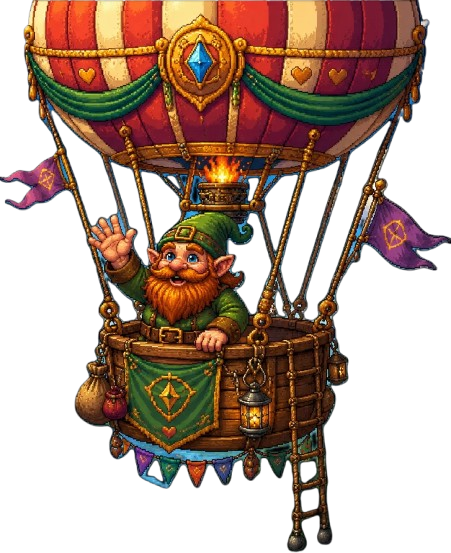
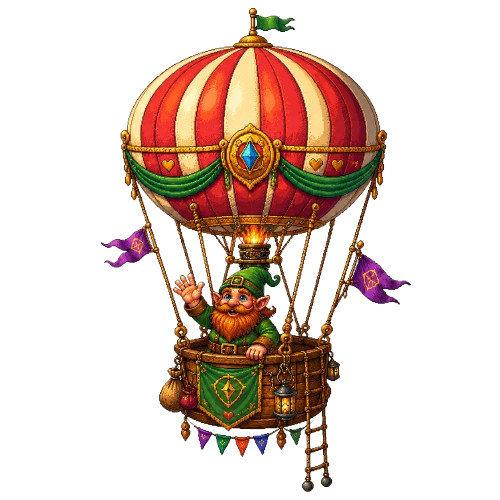
tweaks

diff --git a/src/utils/upgrades.jsx b/src/utils/upgrades.jsx
@@ -73,11 +73,11 @@ const upgradeList = [
     upgrade_image: upgrade_schubkarren,
     gartenzwerg_image: gartenzwerg_schubkarren,
     background_image: background_schubkarren,
-    costs: 25,
+    costs: 40,
     anzahl: 1,
     possession: 0,
     title: "Schubkarren",
-    type: UPGRADE_TYPES.INTERVAL,
+    type: UPGRADE_TYPES.KLICK,
     tooltipDescription: "+1 Scherbe pro Sekunde",
     buyed: false,
     id: 1,
@@ -86,11 +86,11 @@ const upgradeList = [
     upgrade_image: upgrade_heckenschere,
     gartenzwerg_image: gartenzwerg_heckenschere,
     background_image: background_heckenschere,
-    costs: 75,
-    anzahl: 2,
+    costs: 130,
+    anzahl: 1,
     possession: 0,
     title: "Heckenschere",
-    type: UPGRADE_TYPES.KLICK,
+    type: UPGRADE_TYPES.INTERVAL,
     tooltipDescription: "+2 Scherben pro Klick",
     buyed: false,
     id: 2,
@@ -99,8 +99,8 @@ const upgradeList = [
     upgrade_image: upgrade_handwerker,
     gartenzwerg_image: gartenzwerg_handwerker,
     background_image: background_handwerker,
-    costs: 150,
-    anzahl: 3,
+    costs: 350,
+    anzahl: 2,
     possession: 0,
     title: "Handwerker",
     type: UPGRADE_TYPES.INTERVAL,
@@ -112,8 +112,8 @@ const upgradeList = [
     upgrade_image: upgrade_mine,
     gartenzwerg_image: gartenzwerg_mine,
     background_image: background_mine,
-    costs: 400,
-    anzahl: 8,
+    costs: 900,
+    anzahl: 4,
     possession: 0,
     title: "Mine",
     type: UPGRADE_TYPES.KLICK,
@@ -125,8 +125,8 @@ const upgradeList = [
     upgrade_image: upgrade_rubin,
     gartenzwerg_image: gartenzwerg_rubin,
     background_image: background_rubin,
-    costs: 900,
-    anzahl: 18,
+    costs: 2200,
+    anzahl: 9,
     possession: 0,
     title: "Rubin",
     type: UPGRADE_TYPES.INTERVAL,
@@ -138,11 +138,11 @@ const upgradeList = [
     upgrade_image: upgrade_saphir,
     gartenzwerg_image: gartenzwerg_saphir,
     background_image: background_saphir,
-    costs: 1800,
-    anzahl: 36,
+    costs: 5500,
+    anzahl: 18,
     possession: 0,
     title: "Saphir",
-    type: UPGRADE_TYPES.KLICK,
+    type: UPGRADE_TYPES.INTERVAL,
     tooltipDescription: "+36 Scherben pro Klick",
     buyed: false,
     id: 6,
@@ -151,11 +151,11 @@ const upgradeList = [
     upgrade_image: upgrade_elefant,
     gartenzwerg_image: gartenzwerg_elefant,
     background_image: background_elefant,
-    costs: 4500,
-    anzahl: 90,
+    costs: 13000,
+    anzahl: 45,
     possession: 0,
     title: "Elefant",
-    type: UPGRADE_TYPES.INTERVAL,
+    type: UPGRADE_TYPES.KLICK,
     tooltipDescription: "+90 Scherben pro Sekunde",
     buyed: false,
     id: 7,
@@ -164,8 +164,8 @@ const upgradeList = [
     upgrade_image: upgrade_kamel,
     gartenzwerg_image: gartenzwerg_kamel,
     background_image: background_kamel,
-    costs: 9000,
-    anzahl: 180,
+    costs: 30000,
+    anzahl: 90,
     possession: 0,
     title: "Kamel",
     type: UPGRADE_TYPES.KLICK,
@@ -177,8 +177,8 @@ const upgradeList = [
     upgrade_image: upgrade_schneckenreiter,
     gartenzwerg_image: gartenzwerg_schneckenreiter,
     background_image: background_schneckenreiter,
-    costs: 15000,
-    anzahl: 300,
+    costs: 70000,
+    anzahl: 150,
     possession: 0,
     title: "Schneckenreiter",
     type: UPGRADE_TYPES.INTERVAL,
@@ -190,8 +190,8 @@ const upgradeList = [
     upgrade_image: upgrade_lokomotive,
     gartenzwerg_image: gartenzwerg_lokomotive,
     background_image: background_lokomotive,
-    costs: 27000,
-    anzahl: 540,
+    costs: 160000,
+    anzahl: 400,
     possession: 0,
     title: "Lokomotive",
     type: UPGRADE_TYPES.KLICK,
@@ -203,8 +203,8 @@ const upgradeList = [
     upgrade_image: upgrade_scherbenmaschine,
     gartenzwerg_image: gartenzwerg_scherbenmaschine,
     background_image: background_scherbenmaschine,
-    costs: 40000,
-    anzahl: 800,
+    costs: 230000,
+    anzahl: 270,
     possession: 0,
     title: "ScherbenMaschine",
     type: UPGRADE_TYPES.INTERVAL,
@@ -216,11 +216,11 @@ const upgradeList = [
     upgrade_image: upgrade_ballon,
     gartenzwerg_image: gartenzwerg_ballon,
     background_image: background_ballon,
-    costs: 85000,
-    anzahl: 1700,
+    costs: 400000,
+    anzahl: 850,
     possession: 0,
     title: "Ballon",
-    type: UPGRADE_TYPES.KLICK,
+    type: UPGRADE_TYPES.INTERVAL,
     tooltipDescription: "+1700 Scherben pro Klick",
     buyed: false,
     id: 12,
@@ -229,11 +229,11 @@ const upgradeList = [
     upgrade_image: upgrade_mond,
     gartenzwerg_image: gartenzwerg_mond,
     background_image: background_mond,
-    costs: 175000,
-    anzahl: 3500,
+    costs: 950000,
+    anzahl: 1750,
     possession: 0,
     title: "Mond",
-    type: UPGRADE_TYPES.INTERVAL,
+    type: UPGRADE_TYPES.KLICK,
     tooltipDescription: "+3500 Scherben pro Sekunde",
     buyed: false,
     id: 13,
@@ -242,11 +242,11 @@ const upgradeList = [
     upgrade_image: upgrade_geist,
     gartenzwerg_image: gartenzwerg_geist,
     background_image: background_geist,
-    costs: 350000,
-    anzahl: 7000,
+    costs: 2200000,
+    anzahl: 3500,
     possession: 0,
     title: "Geist",
-    type: UPGRADE_TYPES.KLICK,
+    type: UPGRADE_TYPES.INTERVAL,
     tooltipDescription: "+7000 Scherben pro Klick",
     buyed: false,
     id: 14,
@@ -255,8 +255,8 @@ const upgradeList = [
     upgrade_image: upgrade_eis,
     gartenzwerg_image: gartenzwerg_eis,
     background_image: background_eis,
-    costs: 700000,
-    anzahl: 14000,
+    costs: 5000000,
+    anzahl: 7000,
     possession: 0,
     title: "Eis",
     type: UPGRADE_TYPES.INTERVAL,
@@ -268,8 +268,8 @@ const upgradeList = [
     upgrade_image: upgrade_riese,
     gartenzwerg_image: gartenzwerg_riese,
     background_image: background_riese,
-    costs: 1500000,
-    anzahl: 30000,
+    costs: 12000000,
+    anzahl: 15000,
     possession: 0,
     title: "Riese",
     type: UPGRADE_TYPES.KLICK,
@@ -281,8 +281,8 @@ const upgradeList = [
     upgrade_image: upgrade_bergsteiger,
     gartenzwerg_image: gartenzwerg_bergsteiger,
     background_image: background_bergsteiger,
-    costs: 3000000,
-    anzahl: 60000,
+    costs: 28000000,
+    anzahl: 30000,
     possession: 0,
     title: "Bergsteiger",
     type: UPGRADE_TYPES.INTERVAL,
@@ -294,8 +294,8 @@ const upgradeList = [
     upgrade_image: upgrade_pirat,
     gartenzwerg_image: gartenzwerg_pirat,
     background_image: background_pirat,
-    costs: 6500000,
-    anzahl: 130000,
+    costs: 65000000,
+    anzahl: 65000,
     possession: 0,
     title: "Pirat",
     type: UPGRADE_TYPES.KLICK,
@@ -307,8 +307,8 @@ const upgradeList = [
     upgrade_image: upgrade_surfer,
     gartenzwerg_image: gartenzwerg_surfer,
     background_image: background_surfer,
-    costs: 14000000,
-    anzahl: 280000,
+    costs: 150000000,
+    anzahl: 140000,
     possession: 0,
     title: "Surfer",
     type: UPGRADE_TYPES.INTERVAL,
@@ -320,8 +320,8 @@ const upgradeList = [
     upgrade_image: upgrade_bademeister,
     gartenzwerg_image: gartenzwerg_bademeister,
     background_image: background_bademeister,
-    costs: 30000000,
-    anzahl: 600000,
+    costs: 350000000,
+    anzahl: 300000,
     possession: 0,
     title: "Bademeister",
     type: UPGRADE_TYPES.KLICK,
@@ -333,8 +333,8 @@ const upgradeList = [
     upgrade_image: upgrade_soldat,
     gartenzwerg_image: gartenzwerg_soldat,
     background_image: background_soldat,
-    costs: 75000000,
-    anzahl: 1500000,
+    costs: 900000000,
+    anzahl: 750000,
     possession: 0,
     title: "Soldat",
     type: UPGRADE_TYPES.KLICK,

diff --git a/src/app/_components/ScherbenCounter.jsx b/src/app/_components/ScherbenCounter.jsx
@@ -1,6 +1,6 @@
 "use client";
 
-import React, { useEffect, useRef } from "react";
+import React, { useEffect } from "react";
 import useKlickerStore from "@/store/useKlickerStore";
 import Image from "next/image";
 import scherbe from "@/assets/images/Scherbe.png";

diff --git a/src/app/_components/Gartenzwerg.jsx b/src/app/_components/Gartenzwerg.jsx
@@ -40,6 +40,7 @@ const Gartenzwerg = ({ image }) => {
     <div
       ref={gartenzwergRef}
       onClick={handleClick}
+      onContextMenu={(e) => e.preventDefault()}
       className="z-10 cursor-pointer scale-100"
     >
       <Image src={image} height={250} alt="" />